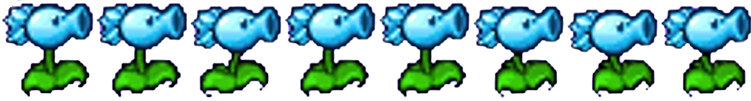
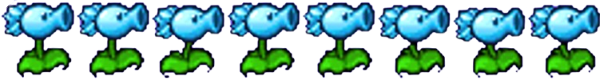
Added SnowPea

diff --git a/PVZ/SnowPea.cpp b/PVZ/SnowPea.cpp
@@ -1,0 +1,27 @@
+#include "SnowPea.h"
+
+SnowPea::SnowPea()
+{
+	// Loading up sprties and setting stuff
+	exists = true;
+	texture.loadFromFile("../Images/SnowPea.png");
+	Texture BulletTexture;
+
+	BulletTexture.loadFromFile("../Images/SnowBullet.png");
+	bullet->SetTexture(BulletTexture);
+
+	animate = new Animation;
+	animate->SetSheet(0.125, 6, texture, 8, 1);
+	Coordinates pos(400, 300);
+	this->position = pos;
+	Ice = true;
+}
+void SnowPea::DrawSnowPea(RenderWindow& window)
+{
+	if (exists)
+	{
+		Fire(window, this->position);
+		animate->Update();
+		animate->DrawAnimation(window, this->position);
+	}
+}

diff --git a/PVZ/PeaShooter.cpp b/PVZ/PeaShooter.cpp
@@ -8,10 +8,8 @@ PeaShooter::PeaShooter()
 	texture.loadFromFile("../Images/PeaShooter3.png");
 	animate = new Animation;
 	animate->SetSheet(0.125, 6, texture, 8, 1);
-	this->sprite.setTexture(this->texture);
 	this->position.SetX(700);
 	this->position.SetY(500);
-	sprite.setTextureRect(IntRect(0, 0, texture.getSize().x / 8, texture.getSize().y / 1));
 	this->lives = 10;
 	//sprite.setTexture(texture);
 	//Animation::SetSheet(Texture& spriteSheet, int imagesPerRow, int imagesPerCol,int totalFrames)

diff --git a/PVZ/Pea.h b/PVZ/Pea.h
@@ -4,8 +4,10 @@
 
 #include <SFML/Graphics.hpp> // Include necassary header file(s)
 #include <SFML/Audio.hpp>
+#include <string>
 #include "Coordinates.h"
 using namespace sf;
+using namespace std;
 
 class Pea
 {
@@ -25,7 +27,8 @@ public:
 
 	void SetFire(bool firing) { fire = firing; }
 	void setSpeed(float speed) { this->speed = speed; }
-
+	
+	void SetTexture(Texture texture) {this->bulletTexture = texture; }
 	void DrawPea(sf::RenderWindow& window);
 };
 

diff --git a/PVZ/Game.h b/PVZ/Game.h
@@ -15,6 +15,7 @@
 #include "Paused.h"
 #include "CherryBomb.h"
 #include "Repeater.h"
+#include "SnowPea.h"
 #include <string>
 using namespace sf;
 using namespace std;
@@ -33,6 +34,7 @@ class Game
 	Plants* ptr = &peaShooter;
 	CherryBomb bomb;
 	Repeater repeat;
+	SnowPea sp;
 	Sun sun;
 	int money;
 	Font font;

diff --git a/PVZ/SnowPea.h b/PVZ/SnowPea.h
@@ -1,0 +1,14 @@
+#pragma once
+
+#include "Shooter.h" // Include neceassary header file(s)
+#include "Animation.h"
+
+class SnowPea : public Shooter
+{
+	Animation* animate;
+	bool Ice;
+public:
+	SnowPea(); // Default constructor 
+	void DrawSnowPea(RenderWindow& window);
+};
+

diff --git a/PVZ/Game.cpp b/PVZ/Game.cpp
@@ -114,6 +114,7 @@ void Game::Start_Game()
 			//dancing.drawZombie(window);
 			//dolphin.drawZombie(window);
 			normal.moveZombie(ptr);
+			sp.DrawSnowPea(window);
 			//football.moveZombie();
 			//flying.moveZombie();
 			//dancing.moveZombie();

diff --git a/PVZ/Shooter.h b/PVZ/Shooter.h
@@ -16,6 +16,8 @@ public:
 	Shooter(int totalBullets=1);
 	//void SetBullet();
 	void Fire(sf::RenderWindow& window, Coordinates PlantCoords,int index=0);
+
+	
 };
 
 
